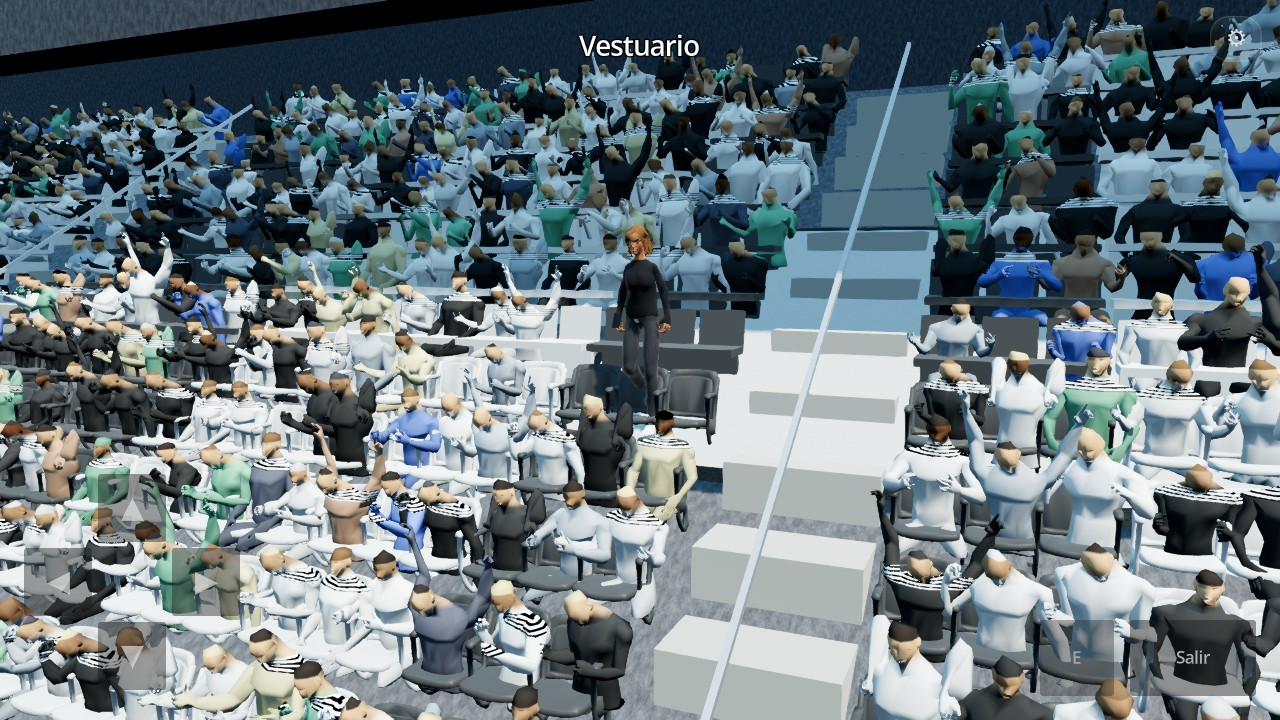
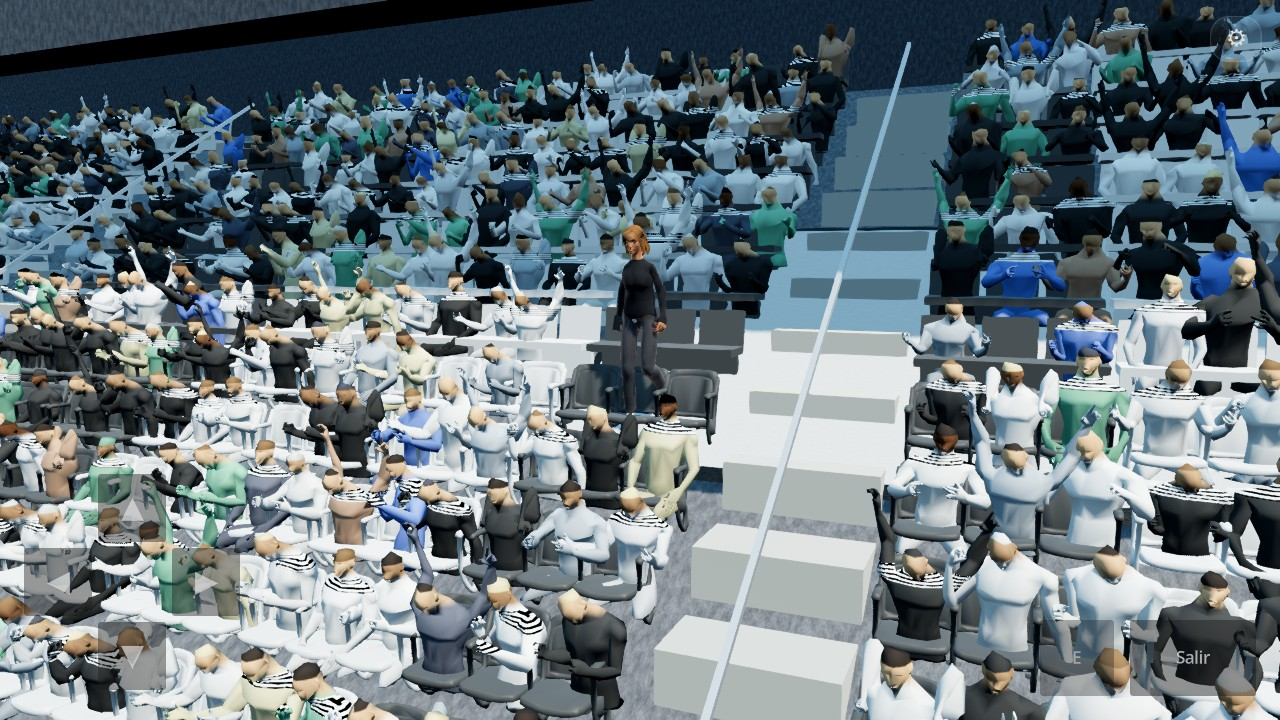
Grada recorrible: escaleras de acceso desde el césped y subir caminando por el pasillo hasta la butaca
Claude-Session: https://claude.ai/code/session_01ARN9gScwNAgW7YBZZkCunU

Changed region(s): [[0.0, 0.0306, 0.6875, 1.0], [0.6562, 0.0, 1.0, 1.0]]

diff --git a/dinastia-godot/ESTADO_MEJORAS.md b/dinastia-godot/ESTADO_MEJORAS.md
@@ -55,7 +55,7 @@ Hecho 10 % · parcial 25 % · pendiente 60 % · del dueño 2 % · sin verificar 
 | M-005 | P1 | Colores propios de butacas en 47 de 176 estadios reales | PENDIENTE | `ASIENTOS` sigue con 47 de 176 estadios |
 | M-006 | P2 | Entorno vacío alrededor del estadio (sólo ciudad propia lo tiene) | PENDIENTE | aparcamiento solo en la ciudad propia (`CityBuilder._aparcamiento`) |
 | M-007 | P2 | Sin variación de entorno por país (palmeras, nieve, montaña de fondo) | PENDIENTE | sin fondo lejano por país/clima en el estadio |
-| M-008 | P2 | Tribunas «falsas» por falta de profundidad en el graderío | PARCIAL | vomitorios sí (`StadiumBuilder._vomitorios`); faltan barandillas, numeración y anillo de palcos |
+| M-008 | P2 | Tribunas «falsas» por falta de profundidad en el graderío | HECHO | vomitorios (`StadiumBuilder._vomitorios`); 21-10: pasillos con peldaños y barandilla cada 8 grupos de butacas (`_montar_pasillos`), escaleras de acceso desde el césped (`_escaleras_de_acceso`), cinta LED en el peto de la bandeja alta (`cinta_led.gdshader`); se sube caminando a la butaca (`RecorridoClub.camino_a_butaca`); capturas `captura_diagnostico_grada`, `captura_sentarse` |
 | M-009 | P2 | Sin voladizo/cubierta visible en estadios sin techo | PARCIAL | techo «visera» y cerchas vistas desde fuera (`FachadaEstadio`); sin visera parcial con estructura por sector |
 | M-010 | P2 | Sin carteles de pared (patrocinadores, fechas, escudo) fuera del campo | PENDIENTE | sin carteles en muros exteriores (la fachada tiene rótulos de puerta, no publicidad) |
 | M-011 | P1 | Marcador/pantalla gigante estática | PENDIENTE | `StadiumBuilder._pantallas` usa una textura fija (`_pantalla_textura`): sin marcador ni repetición vivos |

diff --git a/CLAUDE.md b/CLAUDE.md
@@ -612,4 +612,11 @@ Se lee al empezar cada sesión. Actualizar cuando el usuario pida algo nuevo.
   eje +Z comprobado con `captura_mirada`), `PlayerSpawner.poner_brazalete` (copia del material), capitán en todos
   los clubes al generar (`Mundo._capitan_si_falta`) y cinta heredada en `Puente3D.once`, sector visitante
   (`est.visita1/2` → `sector_visita`), faros (`TraficoCiudad.faros`).
+- 21-10 PEDIDO: «descarta la optimización (ya está bien); la tribuna sigue viéndose mal, ¿la estructura del estadio
+  es modular y navegable?, la gente no se ve tan real». HECHO: pasillos con escalera y barandilla en todas las
+  bandejas + escaleras de acceso desde el césped, cinta LED en el peto (`visor/cinta_led.gdshader`), público con
+  volumen/bufandas/gorras (`hinchada.gdshader`, `OlaGrada.colores_club`), nivel medio de personas que NUNCA se
+  llenaba (bloques sin cabeza desde la 5.ª fila), subir CAMINANDO a la butaca (`camino_a_butaca`). Revisión:
+  `pruebas/captura_diagnostico_grada.tscn` (6 tomas) y `captura_sentarse.tscn`. Pendiente: el exterior (cajas,
+  esquinas abiertas). OJO: sin pantalla, los MultiMesh no guardan posiciones (no probar eso en el banco).
 
